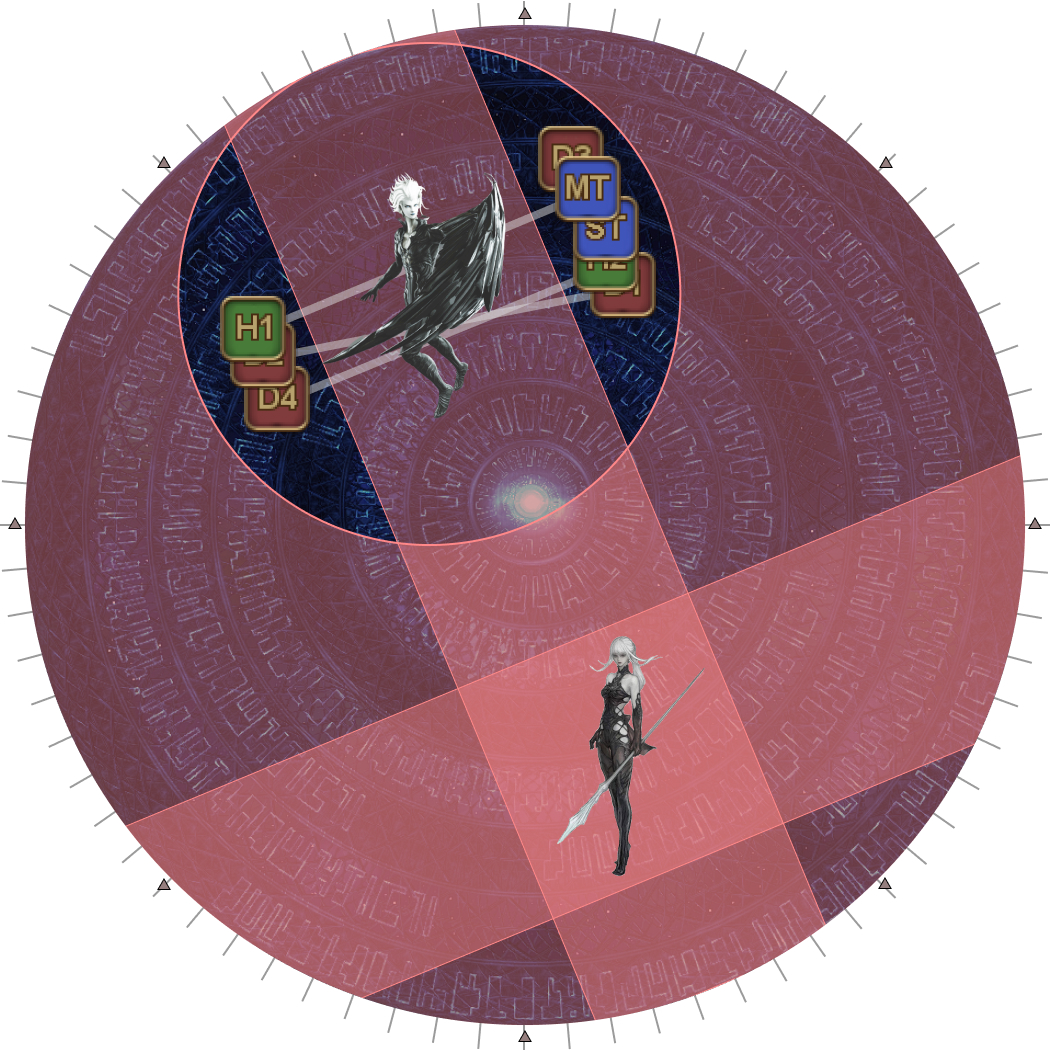
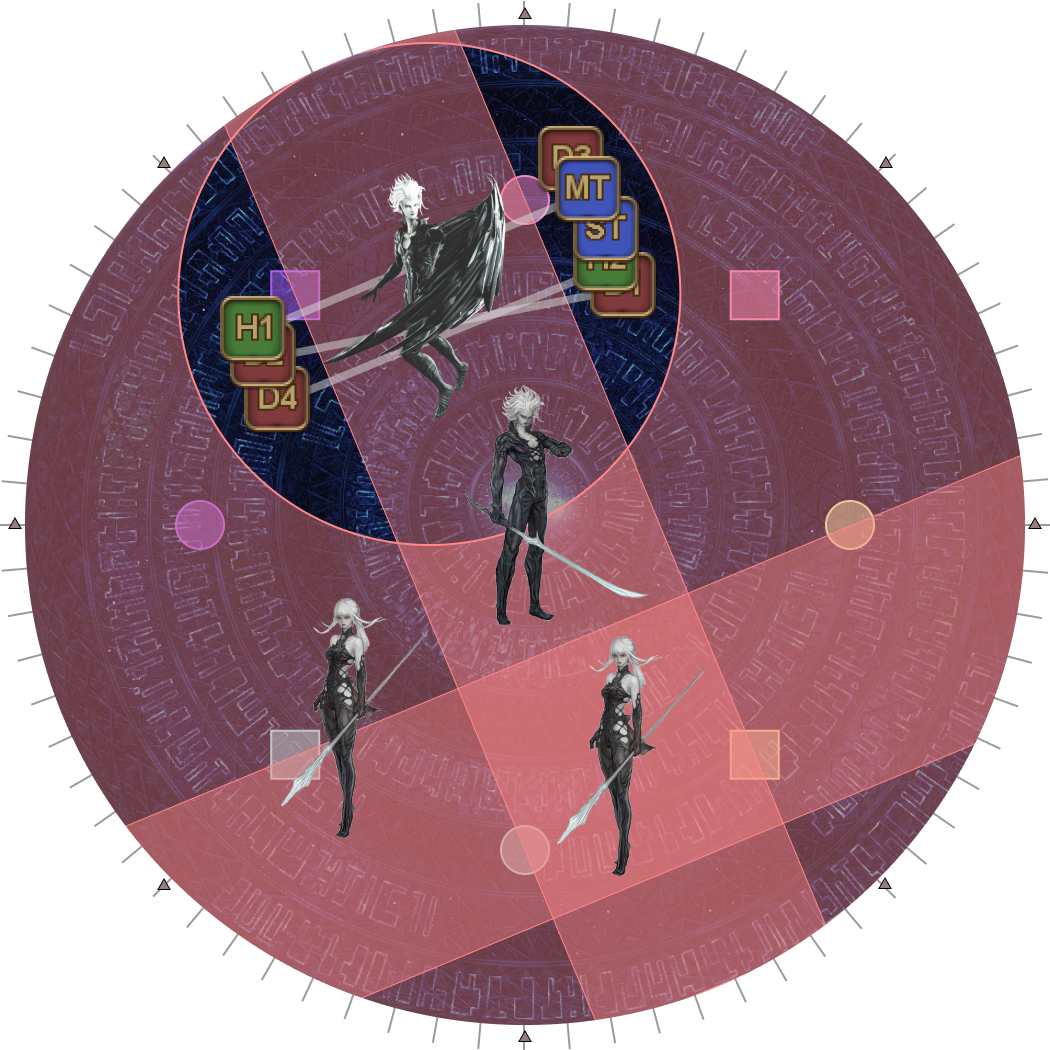
Add details on the decoy M/F pair at Party Synergy

diff --git a/ultimates/top/02_omega_mf.en.md b/ultimates/top/02_omega_mf.en.md
@@ -62,9 +62,13 @@ major mechanic of this phase.
   </tr>
   <tr>
     <td>
-      <p><b>3.</b> Locate the Omega-M and Omega-F towards the edge of the arena
-      that are opposite one another.</p>
-      <p>Dodge their AoEs.</p>
+      <p><b>3.</b> Two Omega-M and two Omega-F clones will spawn.</p>
+      <p>Locate the Omega-M <b>towards the outside</b>, the Omega-F clone <b>directly opposite</b>, and dodge their combined AoEs.</p>
+      <p>The other pair is a decoy, and can be ignored:</p>
+      <ul>
+        <li>The decoy Omega-M will always be in the center, holding a sword.</li>
+        <li>The decoy Omega-F will always be at an (inter)cardinal position (on a marker), holding a staff.</li>
+      </ul>
       <p><em>(You do not need to consider the Mid/Remote Glitch tethers at this
       point.)</em></p>
     </td>
@@ -76,6 +80,11 @@ major mechanic of this phase.
 <details markdown=block>
 <summary><b>[Click to Expand] Safe spots</b></summary>
 <table>
+  <tr>
+    <td colspan="2">
+      <p>Note how the markers demarcate the boundary of Omega-F's AoEs.</p>
+    </td>
+  </tr>
   <tr>
     <td width="50%">
       <p><b>M Sword, F Blade-legs:</b></p>
